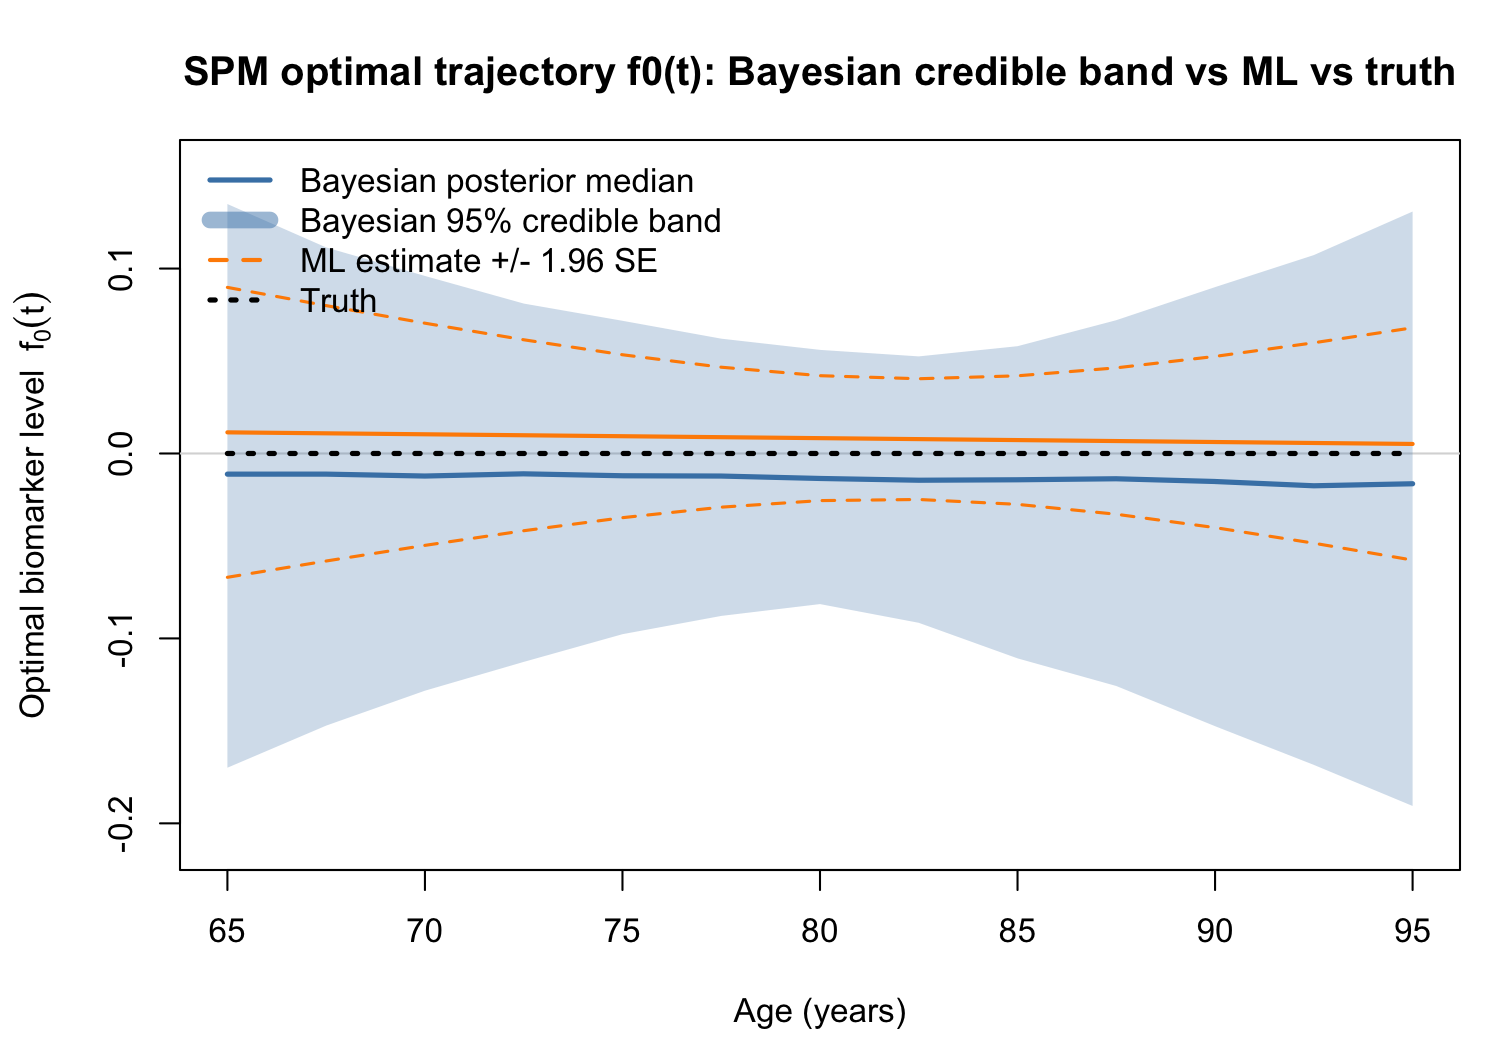
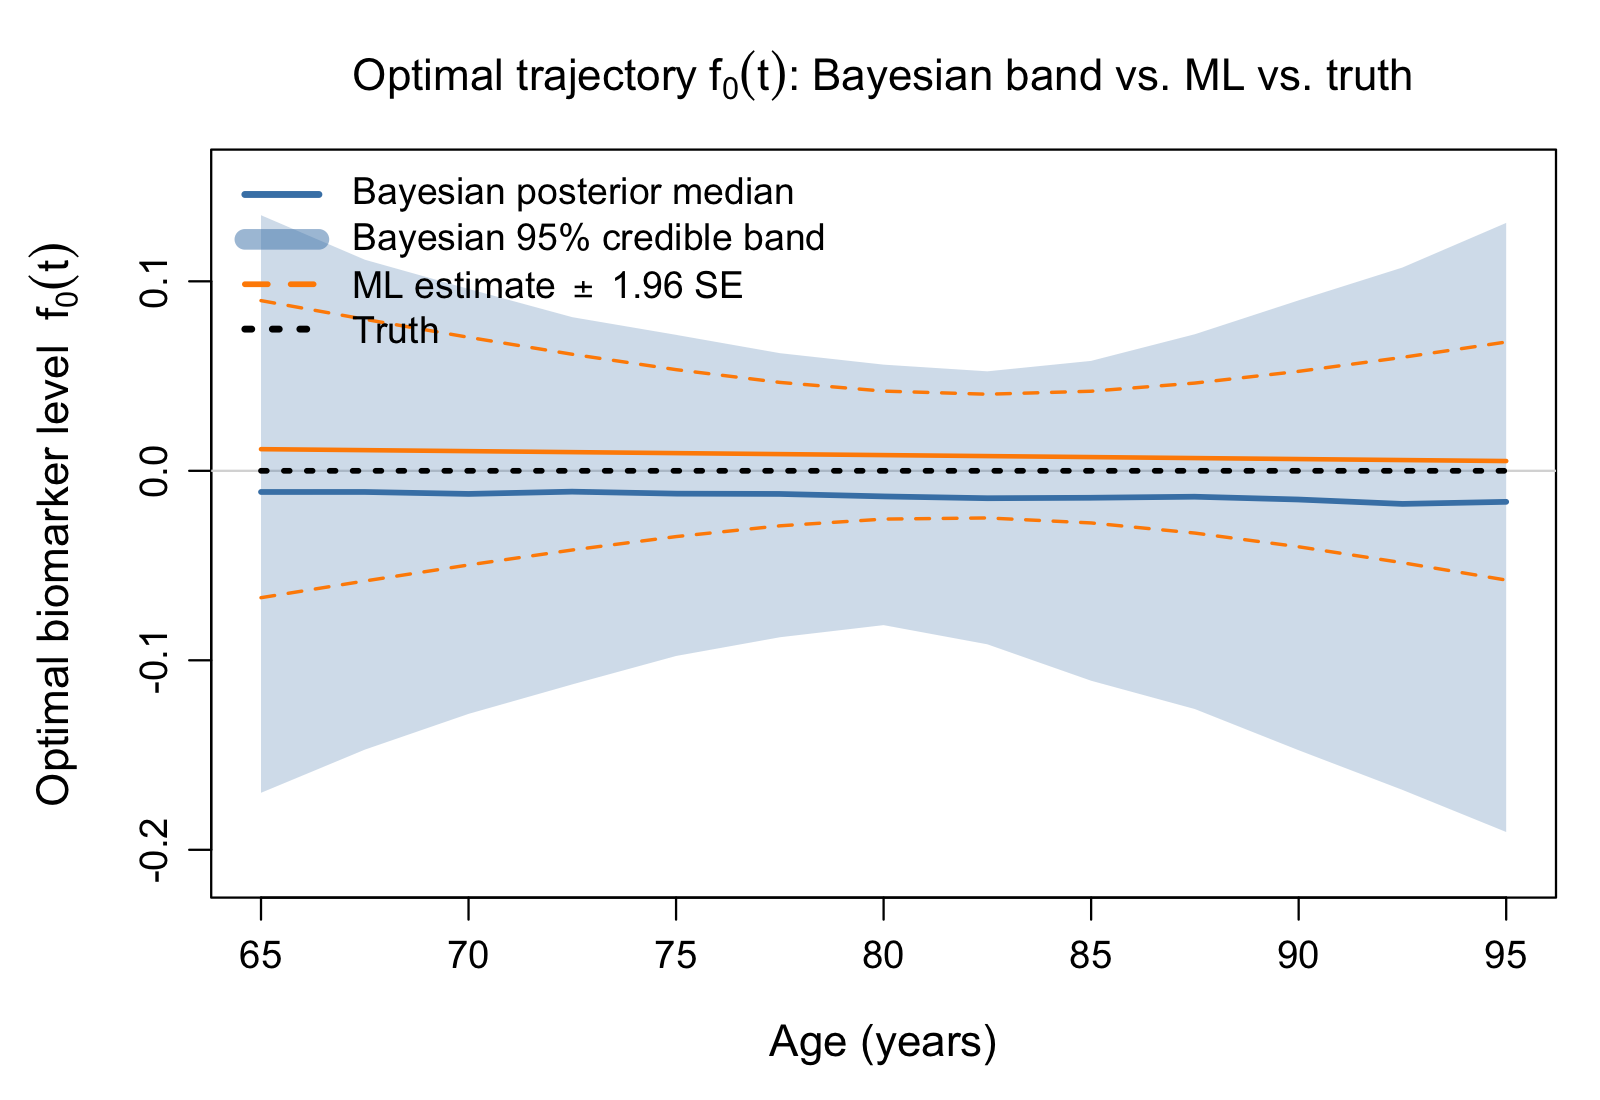
Add standard-model comparison and polish figures (reviewer feedback)
- 09_compare.R + method_comparison.png + new subsection in the simulation
  study: linear Cox misses the lower arm (monotone), spline Cox recovers the
  shape but gives no uncertainty-quantified optimum and ignores the trajectory,
  the SPM returns f0 with a 95% interval using the full dynamics
- Polish Figures 1 (f0 credible bands) and 3 (dynamic prediction): larger
  fonts, heavier lines, cleaner legends/labels

diff --git a/paper/main.tex b/paper/main.tex
@@ -477,6 +477,33 @@ $\tau$     & $0.964\ (0.013)$ & & \\
 \end{tabular}
 \end{table}
 
+\paragraph{Comparison with standard models.} To make the contribution concrete we
+contrast the SPM with conventional alternatives on the same simulated cohort,
+entering each subject's last observed marker as a time-fixed covariate
+(Figure~\ref{fig:compare}). A Cox model with a \emph{linear} marker returns a
+significant but monotone effect ($\hat\beta=0.27$, $p<0.001$): it imposes
+``more is worse'' and is blind to the lower arm of the U, the regime in which low
+values are also hazardous. A Cox model with a penalized-spline marker recovers the
+U-shape, but only as a static snapshot of the last measurement---it treats the
+noisy marker as exact, ignores the longitudinal dynamics, and yields no
+interpretable optimum with quantified uncertainty (one must read a minimum off the
+fitted curve and bootstrap for an interval). The SPM estimates the risk-minimizing
+level directly, $\hat\fzero=0.01$ $[-0.07,0.09]$ against a truth of $0$, with a
+credible interval and using the entire trajectory and its measurement error. The
+distinction from flexible (spline) joint models is therefore not the ability to
+bend, but the interpretable, uncertainty-quantified \emph{optimum} and the use of
+the marker's dynamics.
+
+\begin{figure}[t]\centering
+\includegraphics[width=0.82\textwidth]{method_comparison.png}
+\caption{Estimated log relative hazard as a function of the marker on the simulated
+cohort. A linear Cox model (monotone) misses the lower arm; a penalized-spline Cox
+model recovers the shape but offers no uncertainty-quantified optimum and ignores
+the trajectory; the SPM returns the optimum $\fzero$ with a 95\% interval (truth at
+$0$).}
+\label{fig:compare}
+\end{figure}
+
 %====================================================================
 \section{Illustrations on public data}\label{sec:apps}
 